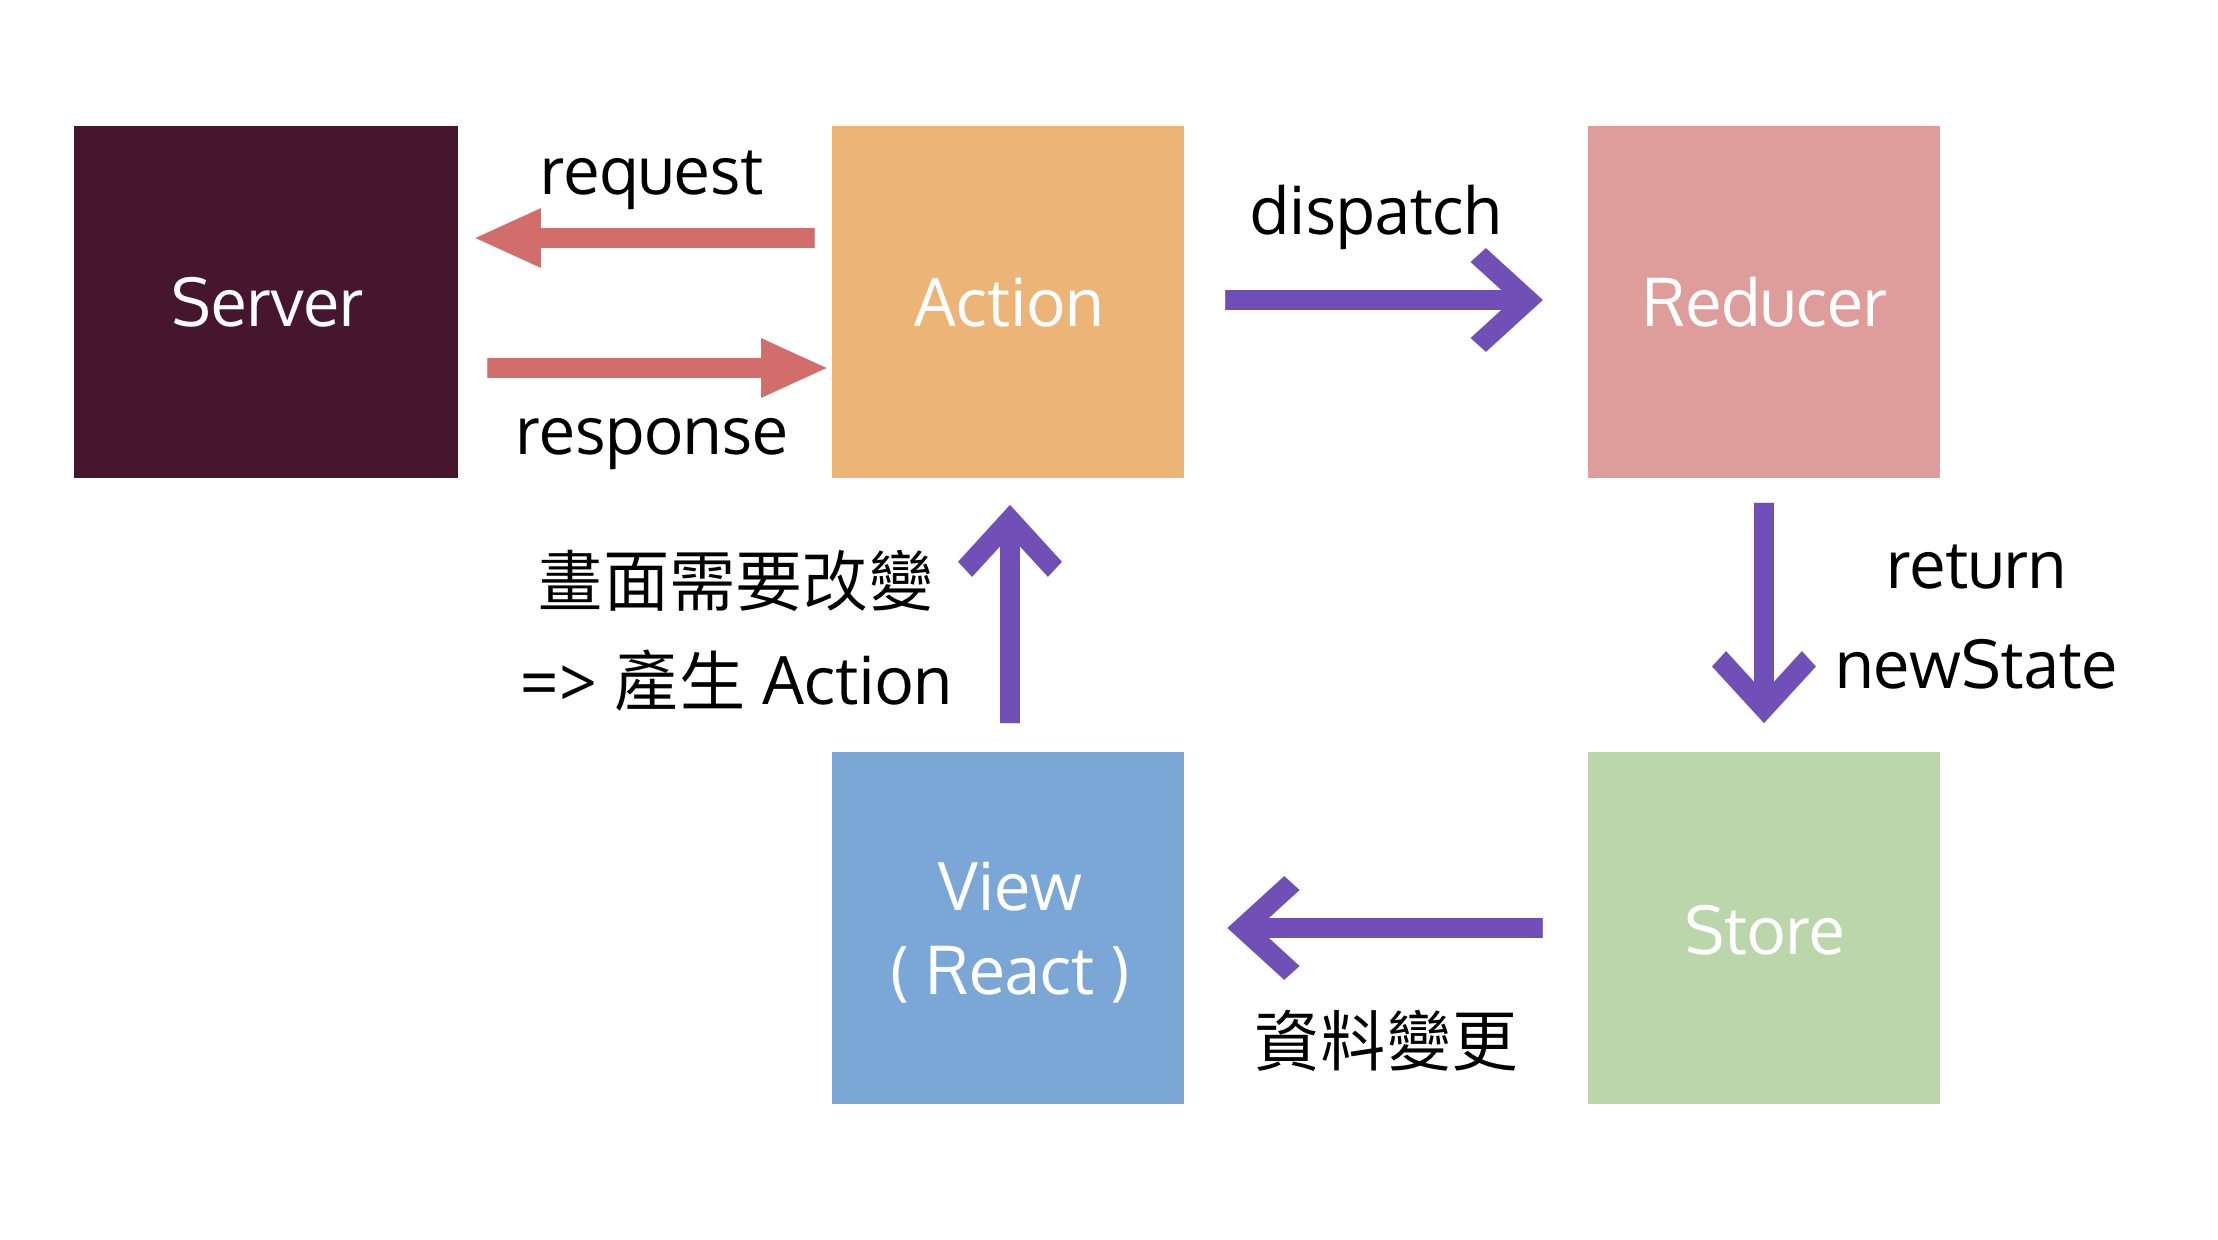
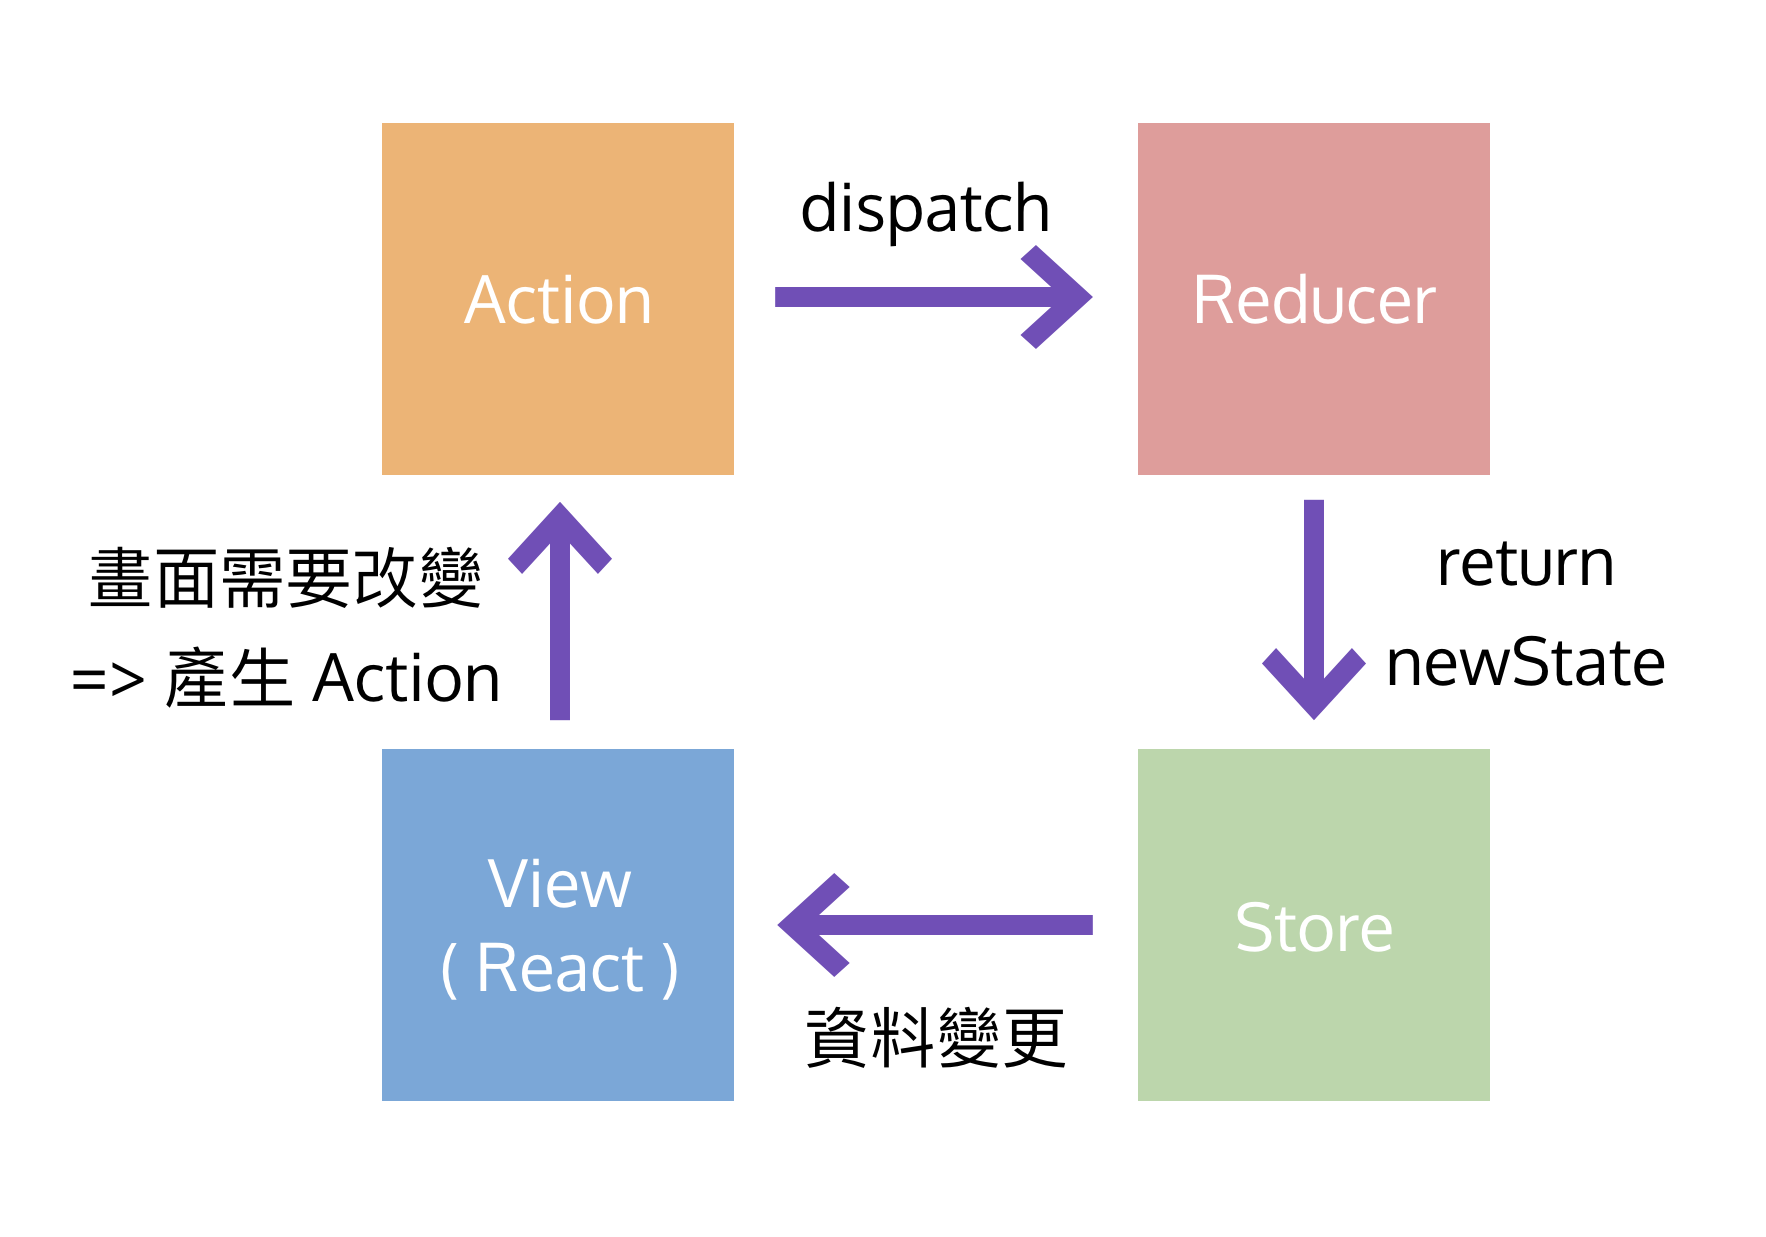
Update redux integrate

diff --git a/Redux-advance/05-article-整合Redux/readme.md b/Redux-advance/05-article-整合Redux/readme.md
@@ -12,3 +12,160 @@
 | **連結 Redux**　　 | 是                         | 否                        |
 | **讀取數據**       | 從 Redux 獲取 state        | 從 props 獲取數據         |
 | **修改數據**       | 向 Redux 派發 actions      | 從 props 調用回調函數     |
+
+
+
+## 整合
+
+
+
+### 配置 Store 
+
+`configureStore.js`
+
+```js
+import { Platform } from 'react-native';
+import { createStore, applyMiddleware, compose } from 'redux';
+import reducer from './reducers';
+let composeEnhancers = compose;
+
+if (__DEV__) {
+  composeEnhancers = (
+    window.__REDUX_DEVTOOLS_EXTENSION_COMPOSE__
+    || require('remote-redux-devtools').composeWithDevTools
+  )({
+    name: Platform.OS,
+    ...require('../package.json').remotedev,
+    // actionCreators,
+  });
+}
+    
+const enhancer = composeEnhancers(applyMiddleware());
+ export default function configureStore(initialState) {
+  const store = createStore(reducer, initialState, enhancer);
+  if (module.hot) {
+    module.hot.accept(() => {
+      store.replaceReducer(require('./reducers').default);
+    });
+  }
+  return store;
+}
+```
+
+
+
+### Reducers
+
+`/reducers/index.js`
+
+```js
+import { combineReducers } from 'redux';
+export default combineReducers({
+  
+});
+```
+
+
+
+### 進入點
+
+```js
+import React from 'react';
+import { AppRegistry } from 'react-native';
+import { Provider } from 'react-redux';
+import configureStore from './configureStore';
+import App from './App';
+import { name as appName } from '../app.json';
+
+export const store = configureStore();
+ const App = () => (
+  <Provider store={store}>
+    <TodoList />
+  </Provider>
+);
+
+AppRegistry.registerComponent(appName, () => App);
+```
+
+
+
+## Usage
+
+### Action
+
+`/actions/todoList.js`
+
+```js
+export const ADD_TODO = 'ADD_TODO';
+export function addToDo(data) {
+  return {
+    type: ADD_TODO,
+    data
+  }
+} 
+```
+
+
+
+### Reducer
+
+`/reducers/index.js`
+
+```js
+import { combineReducers } from 'redux';
+import todoList from './todoList.js';
+export default combineReducers({
+  todoList
+});
+```
+
+`/reducers/todoList.js`
+
+```js
+import { RECEIVE_TODO_LIST, DELETE_TODO, ADD_TODO } from '../actions/todoList';
+ const defaultState = [];
+ export default todoList = (state = defaultState, action) => {
+  switch (action.type) {
+    case ADD_TODO: {
+      return [
+        ...state,
+        action.data
+      ];
+    }
+    default:
+      return state;
+  }
+};
+```
+
+
+
+### Component 連結 Redux
+
+```js
+import { bindActionCreators } from 'redux';
+import { connect } from 'react-redux';
+import {
+  addToDo,
+} from '../actions/todoList';
+
+class MyComponent extends Component {
+    ...
+    componentDidMount() {
+       this.props.addToDo(todoData); 
+    }
+　　...
+}
+
+export default connect(
+  state => ({
+    todoList: state.todoList
+  }),
+  dispatch => bindActionCreators({
+    addToDo
+  }, dispatch)
+)(MyComponent) 
+```
+
+
+

diff --git a/setup/VM_Setup.md b/setup/VM_Setup.md
@@ -6,11 +6,13 @@
 
 ## 前置準備
 
-- 安裝 Virtual Box
+- 安裝 `VirtualBox` 和 `Genymotion`
 
-- 安裝 Genymotion
+  > 從 ReactNative 教材中的作業系統資料夾中 (Mac / Windows)，Windows 的 Genymotion 安裝檔已經包含 VirtualBox
 
-- 將虛擬機檔案 `ReactNative.ova` 匯入 VirtualBox
+- 打開 VirtualBox ，匯入教材中的 Android 模擬器檔案 `HelloJS_Android7.1.0.ova`
+
+- 在 VirtualBox 中匯入教材中的另一個 ReactNative 環境虛擬機檔案 `ReactNative.ova`
 
 ## VM 環境設定
 
@@ -20,8 +22,8 @@
 ### 啟動模擬器與虛擬機
 
 1.  開啟 Genymotion
-2.  開啟 Genymotion 當中的 Android 虛擬機 **Custom Phone - 7.1.0 - API 25 - 768x1280**，等待開機完成
-3.  開啟 VirtualBox 當中的 ReactNative 虛擬機，待虛擬機出現 login 字樣後，開啟網頁 http://localhost:9083/ide.html
+2.  開啟 Genymotion 當中的 Android 模擬器 **Custom Phone - 7.1.0 - API 25 - 768x1280**，等待開機完成 (如果沒有看見 Android 模擬器請重開 Genymotion)
+3.  開啟 VirtualBox 當中的 ReactNative 虛擬機，待虛擬機出現 login 字樣後，表示已經成功啟動，這邊不需理會登入訊息，直接開啟虛擬機掛載的操作網頁介面 http://localhost:9083/ide.html
 
     之後會透過這個頁面來進行虛擬機內的操作
     ![React Native 虛擬機啟動就緒](assets/vm-ready.png)

diff --git a/Network/fetch.md b/Network/fetch.md
@@ -12,7 +12,7 @@
 ```js
 getData = async page => {
   try {
-    let response = await fetch(`http://rn.fuyaode.me/users/1`);
+    let response = await fetch(`https://facebook.github.io/react-native/movies.json`);
     let responseJson = await response.json();
     console.log(responseJson);
     this.setState({
@@ -27,7 +27,7 @@ getData = async page => {
 
 ```js
 getData = page => {
-  return fetch('http://rn.fuyaode.me/users/1')
+  return fetch('https://facebook.github.io/react-native/movies.json')
     .then(response => response.json())
     .then(responseJson => {
       return responseJson.name;

diff --git a/Redux-advance/06-lab-ToDoList練習整合Redux/readme.md b/Redux-advance/06-lab-ToDoList練習整合Redux/readme.md
@@ -2,7 +2,7 @@
 
 難度： 進階
 
-目標： 在 React Native 透過 fetch 使用呼叫後端 API
+目標： 在 React Native 透過 fetch 使用呼叫後端 API，並透過 Redux 管理狀態
 
 專案： [https://github.com/agileworks-tw/RN_Todo_Sample](https://github.com/agileworks-tw/RN_Todo_Sample)
 

diff --git a/ToDoList/jwt-todo.md b/ToDoList/jwt-todo.md
@@ -2,7 +2,7 @@
 
 難度： 進階
 
-目標： 整合 Firebase SDK，接收推播通知
+目標： 加上登入功能與 JWT 驗證
 
 專案： [https://github.com/agileworks-tw/RN_Todo_Sample](https://github.com/agileworks-tw/RN_Todo_Sample)
 

diff --git a/Network/setup.md b/Network/setup.md
@@ -2,7 +2,7 @@
 
 ## iOS 9、10、11 預設不支援 http
 
-### 要使用 https，或是在 Info.plist 設定例外網域
+### 必須使用 https，或是在 Info.plist 設定例外網域
 
 ```plist
 <key>NSAppTransportSecurity</key>
